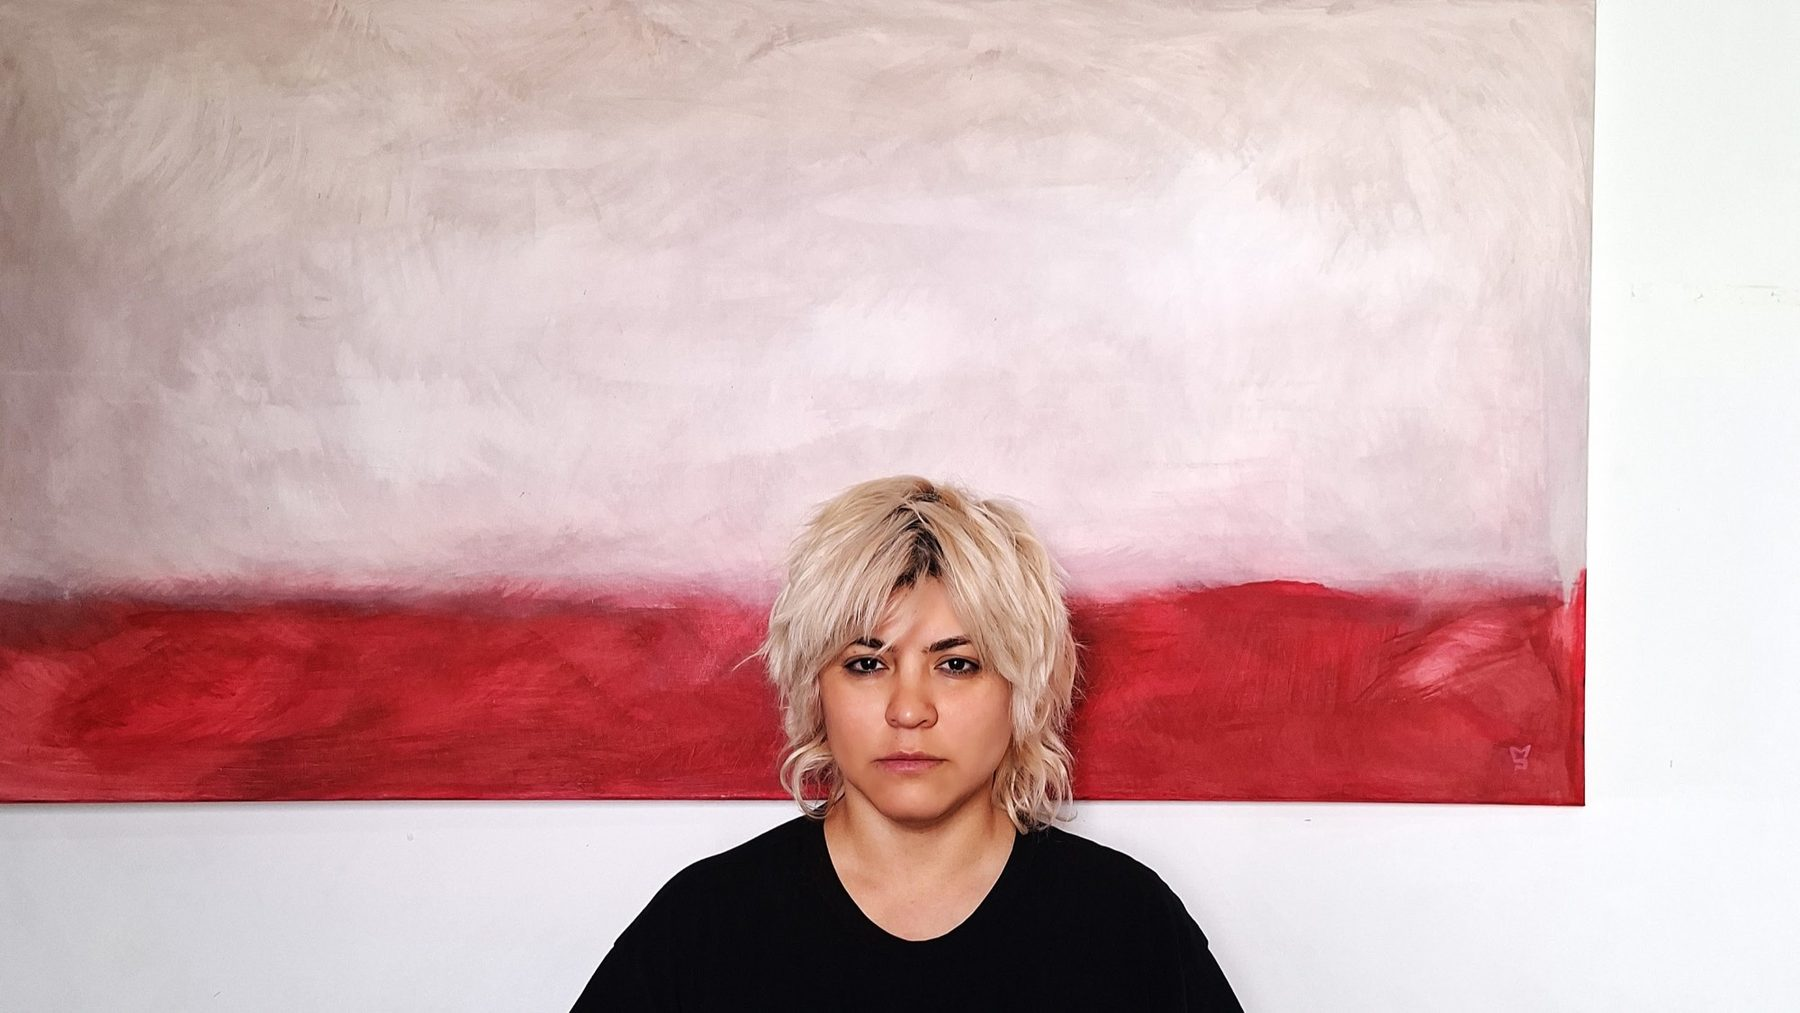
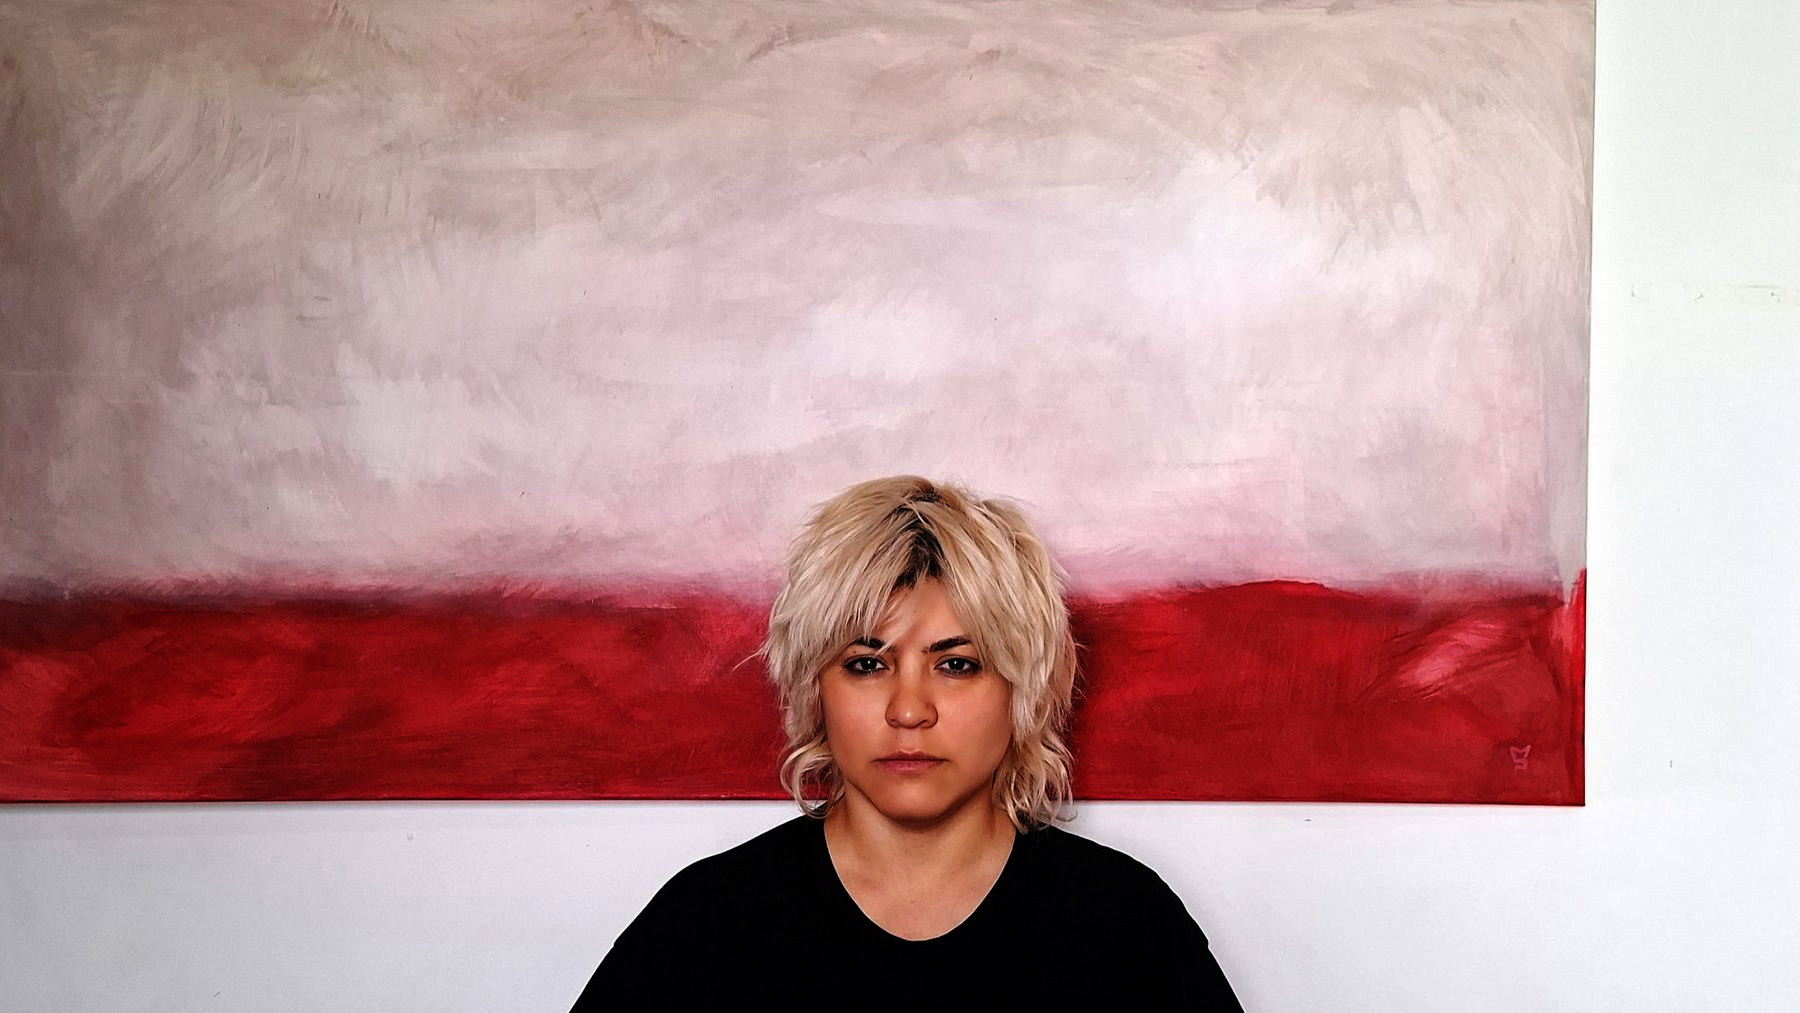
Corrige el rojo levantado en las tres fotos con persona en cuadro
escala.jpg, el retrato de Sobre y contacto-con-la-obra.jpg son de la sesión
antigua y en las tres aparece Umbral. La relación entre la banda roja y el
blanco de la pared vale 0,49 en la obra real, y en ellas estaba en 0,71, 0,73
y 0,59: el rojo levantado respecto al blanco, que es lo que hacía que la
pintura se leyera como bermellón y no como granate.

Se aplica media corrección de gamma (1,52, 1,59 y 1,17) y quedan en 0,60,
0,61 y 0,54. La corrección entera acertaba con la pintura pero oscurecía la
cara: son fotos de una persona con la obra detrás, no documentación de obra.
Repetirlas con la luz de la sesión buena sigue pendiente.

Claude-Session: https://claude.ai/code/session_01FuYanBii98aq7bHL5ACX4o

diff --git a/RECURSOS_FOTOGRAFIA.md b/RECURSOS_FOTOGRAFIA.md
@@ -48,9 +48,31 @@ luz para las dos obras.
 Las dos principales están rectificadas en perspectiva a la proporción real de
 2,000 (140 × 70 cm) y neutralizadas tomando la pared como referencia de gris.
 
-**Pendiente:** `umbral/escala.jpg` sigue siendo de la sesión antigua — su pared
-mide (180, 159, 151), un desvío cálido de +29 frente a la neutra de la sesión
-nueva. Hay que repetirla, y necesita una persona en cuadro.
+## Las tres fotos con persona en cuadro
+
+`umbral/escala.jpg`, `retrato/gabriela-estudio.jpg` y
+`estudio/contacto-con-la-obra.jpg` son de la sesión antigua y no se pueden
+rehacer sin una persona delante. En las tres sale Umbral, y en las tres salía
+con el rojo levantado.
+
+La medida que lo delata es **la relación entre la banda roja y el blanco de la
+pared**. Si solo cambiara la exposición, esa relación se mantendría:
+
+| Imagen | Relación antes | Después | Gamma aplicada |
+|---|---|---|---|
+| Referencia real (sesión nueva) | **0,49** | — | — |
+| escala | 0,71 | 0,60 | 1,52 |
+| retrato | 0,73 | 0,61 | 1,59 |
+| contacto con la obra | 0,59 | 0,54 | 1,17 |
+
+Se aplicó **la mitad** de la corrección, no la entera. Llevar la relación hasta
+0,49 dejaba la pintura fiel pero oscurecía la cara y las ojeras de Gabriela: son
+fotos de una persona con la obra detrás, no documentación de obra, y corregir la
+pintura arrastra a la persona. Una gamma casi no toca los blancos —la pared pasa
+de 248 a 245 en `escala`— pero sí baja los medios tonos.
+
+**Sigue pendiente repetirlas** en la misma pared y sobre las 13:00, con la luz de
+la sesión buena. Es la única forma de que salgan fieles sin ceder en el retrato.
 
 ## Montaje
 
